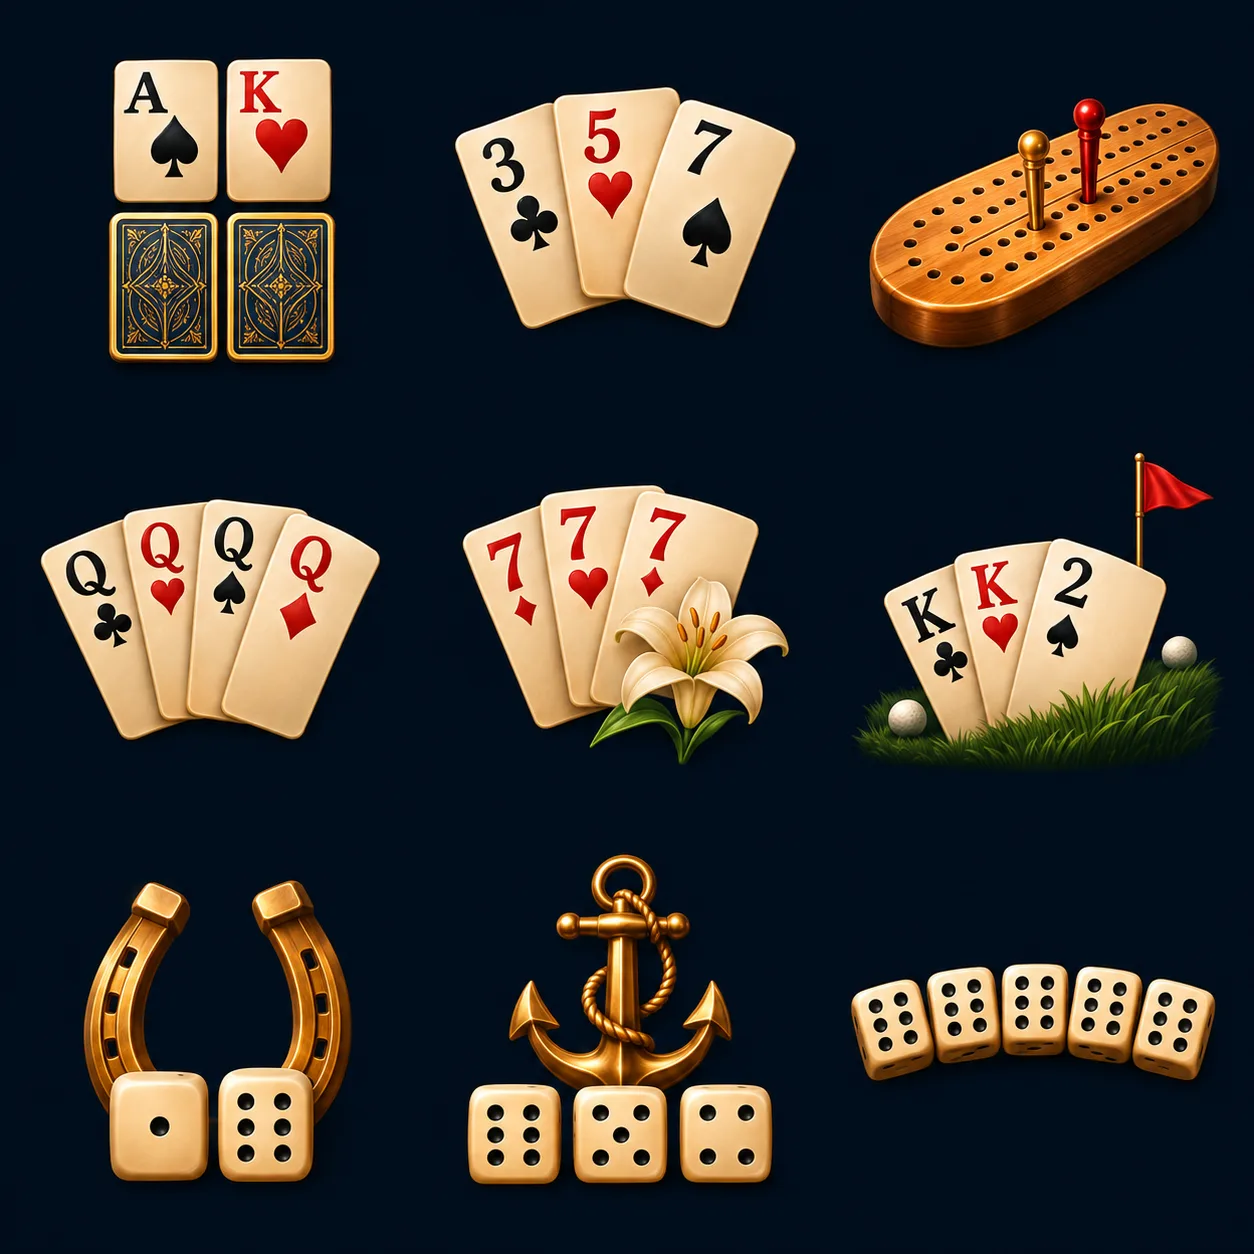
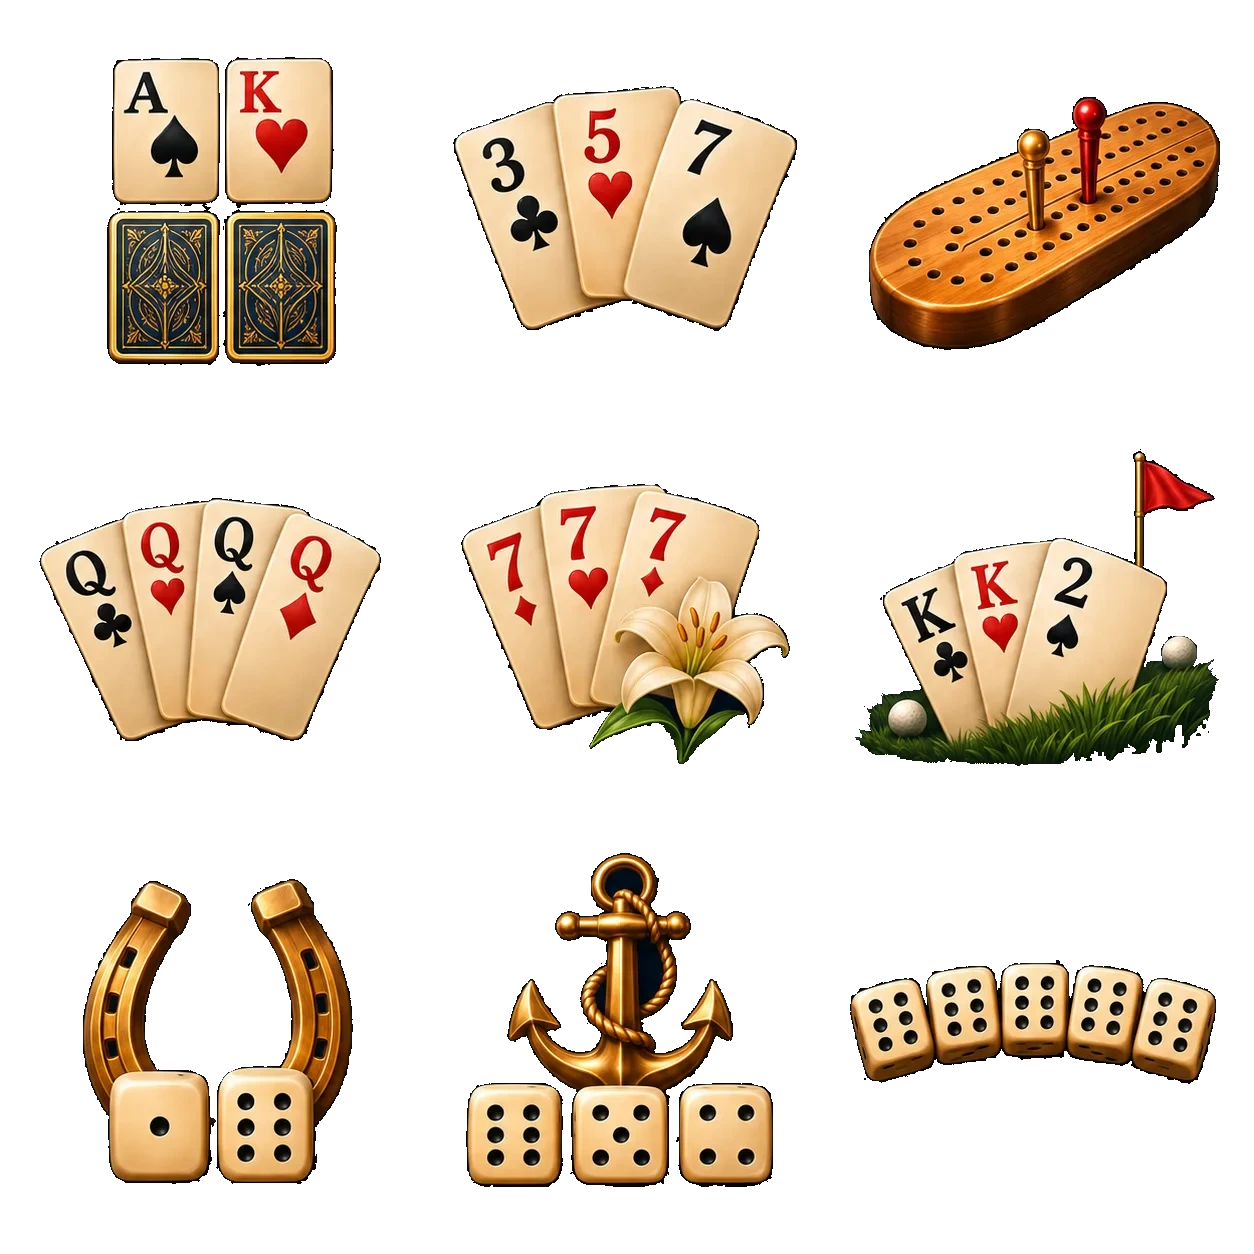
Restore shared Midnight Blue scene composition

diff --git a/src/components/midnight/midnight.css b/src/components/midnight/midnight.css
@@ -63,9 +63,8 @@ body:has(.midnight-invite){background:#06111f}
 .midnight-match-info p{font-size:.9rem;line-height:1.5;color:#d6dfe5}
 
 .dealer-catalog .midnight-art{mix-blend-mode:lighten}
-.dealer-catalog .midnight-tile-large{aspect-ratio:1.4;min-height:5rem;display:grid;grid-template-rows:auto minmax(0,1fr);align-items:start;padding:.7rem}
-.dealer-catalog[data-category=dice] .midnight-tile-large{aspect-ratio:1.12}
-.dealer-catalog .midnight-tile-large>span{grid-row:1;max-width:100%;font-size:clamp(1.05rem,3.7cqi,1.55rem);line-height:1.08;text-shadow:0 2px 4px #000,0 0 8px #06111f}
+.dealer-catalog .midnight-tile-large{aspect-ratio:1.6;min-height:5rem;display:grid;grid-template-rows:auto minmax(0,1fr);align-items:start;padding:.5rem .6rem}
+.dealer-catalog .midnight-tile-large>span{grid-row:1;max-width:100%;font-size:clamp(.95rem,3.5cqi,1.4rem);line-height:1.08;text-shadow:0 2px 4px #000,0 0 8px #06111f}
 .dealer-catalog .midnight-tile-large>.midnight-art{position:static;grid-row:2;justify-self:end;width:90%;height:100%;min-height:0;opacity:.8;object-fit:contain;mask-image:none}
 .dealer-catalog [data-dealer-game-option=holm-game]>.midnight-art{width:100%;opacity:1}
 .dealer-catalog :is([data-dealer-game-option=cribbage],[data-dealer-game-option=six-card-golf])>.midnight-art{width:78%;opacity:.65}
@@ -76,10 +75,10 @@ body:has(.midnight-invite){background:#06111f}
 .midnight-setup[data-dealer-game-setup-step=config]>div>div{padding:.4rem;gap:.3rem;display:flex;flex-direction:column}
 .midnight-setup[data-dealer-game-setup-step=config]>div>div>*{margin-top:0;margin-bottom:0}
 .midnight-setup[data-dealer-game-setup-step=config] .midnight-setup-clock button{min-height:2.75rem}
-.midnight-setup[data-dealer-game-setup-step=config] .midnight-setup-identity{margin-top:.2rem;padding:.25rem .5rem}
-.midnight-setup[data-dealer-game-setup-step=config] .midnight-setup-identity h2{font-size:clamp(1.15rem,3.7cqi,1.6rem);margin:.15rem 0}
-.midnight-setup[data-dealer-game-setup-step=config] .midnight-setup-identity p{font-size:.65rem;line-height:1.2}
-.midnight-setup[data-dealer-game-setup-step=config] .midnight-setup-identity>.midnight-art{height:clamp(2.75rem,10cqb,5rem)}
+.midnight-setup[data-dealer-game-setup-step=config] .midnight-setup-identity{margin:0;padding:0;border:0;border-radius:0;background:none;justify-content:flex-end}
+.midnight-setup[data-dealer-game-setup-step=config] .midnight-setup-toolbar h2{min-width:0;font-size:clamp(1.1rem,3.7cqi,1.6rem);line-height:1.1;margin:0;text-shadow:0 2px 5px #000}
+.midnight-setup[data-dealer-game-setup-step=config] .midnight-setup-identity>.midnight-art{flex:0 0 74%;width:74%;height:clamp(3.5rem,calc(100cqb - 30.6rem),7rem);object-fit:contain;mix-blend-mode:lighten;filter:drop-shadow(0 3px 3px #0008)}
+.midnight-setup[data-dealer-game-setup-step=config] .midnight-amount>div{border:0}
 .midnight-setup[data-dealer-game-setup-step=config] .midnight-settings{gap:.18rem;padding:0}
 .midnight-setup .midnight-setup-body{flex:0 0 auto}
 .midnight-setup[data-dealer-game-setup-step=config] .midnight-inline-setting{padding:0 .45rem;gap:.35rem;min-height:2.875rem}
@@ -92,9 +91,14 @@ body:has(.midnight-invite){background:#06111f}
 .midnight-setup[data-dealer-game-setup-step=config] .midnight-footer{position:static;padding-top:.25rem;gap:.25rem}
 .midnight-setup[data-dealer-game-setup-step=config] .midnight-footer button{padding:.3rem;min-height:2.75rem;font-size:.95rem;line-height:1.1}
 .midnight-setup[data-dealer-game-setup-step=config] .midnight-footer>p{font-size:.6rem;line-height:1.15;margin:0}
-.midnight-setup-identity:has(>.midnight-holm-scene){flex-wrap:wrap;overflow:hidden}
-.midnight-setup-identity:has(>.midnight-holm-scene)>div{display:flex;align-items:baseline;justify-content:space-between;gap:.5rem;flex-basis:100%}
-.midnight-setup[data-dealer-game-setup-step=config] .midnight-setup-identity>.midnight-holm-scene{flex-basis:100%;width:100%;height:auto;max-height:8rem;object-fit:contain;mix-blend-mode:normal;filter:none;border-radius:.35rem}
+/* Exact unobstructed regions of approved mockup 03, shared across games. */
+.midnight-scene-header,.dealer-catalog .midnight-tile{position:relative;isolation:isolate;background-color:#07121b;background-image:linear-gradient(#07121b22,#07121b44),url('/game-branding/approved-scene-table.jpg');background-position:center,center bottom;background-size:100% 100%,100% 55%;background-repeat:no-repeat}
+.midnight-scene-header:before,.dealer-catalog .midnight-tile:before{content:'';position:absolute;z-index:-2;inset:0 auto 0 0;width:46%;background:url('/game-branding/approved-scene-light.jpg') left bottom/auto 100% no-repeat;mask-image:linear-gradient(90deg,#000 55%,transparent)}
+.midnight-scene-header:after,.dealer-catalog .midnight-tile:after{content:'';position:absolute;z-index:-2;inset:0 0 0 auto;width:28%;background:url('/game-branding/approved-scene-glow.jpg') right top/100% 100% no-repeat;mask-image:linear-gradient(90deg,transparent,#000)}
+.midnight-scene-header{border:1px solid #b99558;border-radius:.8rem;padding:.25rem .5rem;overflow:hidden}
+.midnight-scene-header .midnight-setup-toolbar{position:relative;background:linear-gradient(90deg,#06111fb3,transparent);border-radius:.3rem}
+.dealer-catalog .midnight-tile:before,.dealer-catalog .midnight-tile:after{opacity:.5}
+.midnight-setup[data-dealer-game-setup-step=game-selection]>div{background-image:linear-gradient(#06111f9c,#06111ff0 70%),url('../../assets/peoria-bridge-mobile.jpg');background-position:center top;background-size:cover}
 /* An expanded optional amount replaces its summary value in the same row.
    Its existing switch and amount handlers remain independently accessible. */
 .midnight-setup .midnight-setting:has(.midnight-optional-controls):has(>button[aria-expanded=true]){display:grid;grid-template-columns:minmax(0,1fr) minmax(0,12.25rem);align-items:center;padding:0 .45rem}
@@ -109,15 +113,19 @@ body:has(.midnight-invite){background:#06111f}
 .midnight-optional-controls>.midnight-amount{gap:.2rem;min-width:0}
 .midnight-optional-controls>.midnight-amount>div{padding:0 .1rem}
 .midnight-optional-controls>.midnight-amount input,.midnight-optional-controls>.midnight-amount>div>span{font-size:1.1rem}
-@container (min-width:36rem) and (max-height:36rem){
+@container (min-width:26rem) and (max-height:36rem){
  .midnight-setup[data-dealer-game-setup-step=config] .midnight-setup-heading{display:flex;align-items:center;gap:.4rem}
- .midnight-setup[data-dealer-game-setup-step=config] .midnight-setup-toolbar{order:2}
- .midnight-setup[data-dealer-game-setup-step=config] .midnight-setup-toolbar>small{display:none}
- .midnight-setup[data-dealer-game-setup-step=config] .midnight-setup-identity{flex:1;margin-top:0}
+ .midnight-setup[data-dealer-game-setup-step=config] .midnight-setup-toolbar{flex:1;flex-wrap:wrap;gap:.1rem}
+ .midnight-setup[data-dealer-game-setup-step=config] .midnight-setup-toolbar h2{flex-basis:100%}
+ .midnight-setup[data-dealer-game-setup-step=config] .midnight-setup-identity{flex:0 0 52%}
  .midnight-setup[data-dealer-game-setup-step=config] .midnight-settings{grid-template-columns:repeat(2,minmax(0,1fr))}
- .midnight-setup-identity:has(>.midnight-holm-scene){flex-wrap:nowrap}
- .midnight-setup-identity:has(>.midnight-holm-scene)>div{display:block;flex-basis:30%}
- .midnight-setup[data-dealer-game-setup-step=config] .midnight-setup-identity>.midnight-holm-scene{flex-basis:65%;width:65%;max-height:4rem}
+ .midnight-setup[data-dealer-game-setup-step=config] .midnight-setup-identity>.midnight-art{flex-basis:100%;width:100%;height:3.5rem}
+}
+@container (min-width:26rem) and (max-width:36rem) and (max-height:36rem){
+ .midnight-setup .midnight-setting:has(.midnight-optional-controls):has(>button[aria-expanded=true]){grid-column:1/-1}
+ .midnight-setup[data-dealer-game-setup-step=config] .midnight-inline-setting{display:grid;grid-template-columns:minmax(0,1fr);gap:.1rem;padding:.15rem .4rem}
+ .midnight-setup[data-dealer-game-setup-step=config] .midnight-inline-control{width:100%;max-width:none}
+ .midnight-setup[data-dealer-game-setup-step=config] .midnight-settings>.midnight-toggle{grid-column:1/-1}
 }
 .midnight-pending{display:block;white-space:nowrap;font-size:.9rem}
 .midnight-lobby .delayed-lineup li[data-acceptance=own]{background:linear-gradient(125deg,#163c2c,#0b241c);border-color:#3c8b59;box-shadow:inset 3px 0 #62ad7f}

diff --git a/src/components/midnight/GameArtwork.tsx b/src/components/midnight/GameArtwork.tsx
@@ -4,6 +4,8 @@ import './midnight.css';
 // Decorative motifs only. Names, availability and game rules stay in the catalog.
 const motifs = new Set(['run21','tri-towers','quintzee','boxdrop','trip-flip','take-two','royal-flash','mega-card-golf']);
 const atlas:Record<string,number>={'holm-game':0,'3-5-7':1,'357-drop':1,cribbage:2,'crib-lab':2,'gin-rummy':3,canasta:4,'six-card-golf':5,horses:6,'horses-blitz':6,'ship-captain-crew':7,'ship-cap-voyage':7,yahtzee:8};
+// Trim only empty atlas margins on Multiplayer surfaces; the artwork is unchanged.
+const sceneBounds:Record<number,string>={1:'22 64 374 285',2:'20 80 385 285',3:'20 50 380 305',4:'25 50 370 320',5:'20 20 388 350',6:'35 35 335 330',7:'55 10 320 355',8:'10 112 398 155'};
 const fans:Record<string,string[]> = {
   'battle-31':['A♠','K♠','Q♠'], 'race-poker':['A♠','K♥','Q♣'],
 };
@@ -11,10 +13,10 @@ function Die({n,x,y,size=45,fill}:{n:number;x:number;y:number;size?:number;fill:
   const pips=n===1?[[.5,.5]]:n===2?[[.25,.25],[.75,.75]]:n===3?[[.25,.25],[.5,.5],[.75,.75]]:n===4?[[.25,.25],[.75,.25],[.25,.75],[.75,.75]]:n===5?[[.25,.25],[.75,.25],[.5,.5],[.25,.75],[.75,.75]]:[[.25,.22],[.75,.22],[.25,.5],[.75,.5],[.25,.78],[.75,.78]];
   return <g transform={`translate(${x} ${y})`}><rect width={size} height={size} rx={size*.16} fill={fill} stroke="#f9deb0" strokeWidth="1.5"/>{pips.map(([a,b],i)=><circle key={i} cx={a*size} cy={b*size} r={size*.075} fill="#14212b"/>)}</g>;
 }
-export function GameArtwork({game,className='',surface='motif'}:{game:string;className?:string;surface?:'motif'|'setup'}){
+export function GameArtwork({game,className='',surface='motif'}:{game:string;className?:string;surface?:'motif'|'picker'|'setup'}){
   const id=useId().replace(/:/g,''),paper=id+'paper',gold=id+'gold';
-  if(game==='holm-game')return <img className={'midnight-art '+(surface==='setup'?'midnight-holm-scene ':'')+className} src={'/game-branding/holm-approved-'+(surface==='setup'?'scene':'cards')+'.jpg'} alt="" aria-hidden="true"/>;
-  if(game in atlas){const cell=atlas[game];return <svg className={'midnight-art '+className} viewBox="0 0 418 418" aria-hidden="true" focusable="false"><defs><clipPath id={id+'clip'}><rect width="418" height="418"/></clipPath></defs><g clipPath={`url(#${id}clip)`}><image href="/game-branding/midnight-motifs.webp" x={-(cell%3)*418} y={-Math.floor(cell/3)*418} width="1254" height="1254"/></g></svg>;}
+  if(game==='holm-game')return <img className={'midnight-art midnight-holm-cards '+className} src="/game-branding/holm-approved-cards.jpg" alt="" aria-hidden="true"/>;
+  if(game in atlas){const cell=atlas[game];return <svg className={'midnight-art '+className} viewBox={surface==='motif'?'0 0 418 418':sceneBounds[cell]??'0 0 418 418'} aria-hidden="true" focusable="false"><defs><clipPath id={id+'clip'}><rect width="418" height="418"/></clipPath></defs><g clipPath={`url(#${id}clip)`}><image href="/game-branding/midnight-motifs.webp" x={-(cell%3)*418} y={-Math.floor(cell/3)*418} width="1254" height="1254"/></g></svg>;}
   if(game==='chucky-showdown')return <img className={'midnight-art midnight-portrait '+className} src="/arcade/approved-v1/chucky-portrait.webp" alt="" aria-hidden="true"/>;
   if(motifs.has(game))return <img className={'midnight-art midnight-existing-art '+className} src={`/game-branding/async-v1/${game}-motif.webp`} alt="" aria-hidden="true"/>;
   const cards=fans[game];

diff --git a/src/components/DealerGameSetup.tsx b/src/components/DealerGameSetup.tsx
@@ -1176,9 +1176,10 @@ const DealerGameSetupInner = ({
   const amount=(label:string,value:string,onChange:(value:string)=>void,min=1,max?:number,prefix='$')=><AmountControl label={label} value={value} onChange={onChange} min={min} max={max} prefix={prefix}/>;
   const optionalAmount=(label:string,enabled:boolean,toggle:(value:boolean)=>void,value:string,change:(value:string)=>void)=>setting(label,enabled?'$'+value:'Off',<div className="midnight-optional-controls"><ToggleRow label={label+' enabled'} checked={enabled} onChange={toggle}/>{enabled&&amount(label,value,change)}</div>);
 
-  const heading=(title:string,instruction:string)=><header className="midnight-setup-heading">
-    <div className="midnight-setup-toolbar"><small>PEORIA POKER LEAGUE</small><div className="midnight-setup-clock">{timeLeft!==null&&<Badge variant={timeLeft<=10?'destructive':'default'}><Timer className="w-4 h-4"/>{timeLeft}s</Badge>}{pauseControl}</div></div>
-    <div className="midnight-setup-identity"><div><h2>{title}</h2><p>{dealerUsername}, {instruction}</p>{activeHarnessMap[selectedGameType]?.active&&<p className="text-red-400">Harness: {activeHarnessMap[selectedGameType].label}</p>}</div>{selectionStep==='config'&&<GameArtwork game={selectedGameType} surface="setup"/>}</div>
+  const heading=(title:string,instruction:string)=><header className={'midnight-setup-heading'+(selectionStep==='config'?' midnight-scene-header':'')}>
+    <div className="midnight-setup-toolbar">{selectionStep==='config'?<h2>{title}</h2>:<small>PEORIA POKER LEAGUE</small>}<div className="midnight-setup-clock">{timeLeft!==null&&<Badge variant={timeLeft<=10?'destructive':'default'}><Timer className="w-4 h-4"/>{timeLeft}s</Badge>}{pauseControl}</div></div>
+    <div className="midnight-setup-identity">{selectionStep==='config'?<><p className="sr-only">{dealerUsername}, {instruction}</p><GameArtwork game={selectedGameType} surface="setup"/></>:<div><h2>{title}</h2><p>{dealerUsername}, {instruction}</p></div>}</div>
+    {activeHarnessMap[selectedGameType]?.active&&<p className="text-red-400">Harness: {activeHarnessMap[selectedGameType].label}</p>}
   </header>;
 
   // Game selection step - tabbed layout with Cards vs Dice

diff --git a/src/components/catalog/DealerGamePicker.tsx b/src/components/catalog/DealerGamePicker.tsx
@@ -8,7 +8,7 @@ export function DealerGamePicker({previousGame,roster,access,onSelect,harnesses=
  const games=GAME_CATALOG.filter(game=>game.modes.includes('multiplayer')&&game.category===category&&isDiscovered(game,access));
  return <div className="dealer-catalog space-y-3" data-category={category}><CategoryNavigation value={category} onChange={setCategory}/>
  <div className="midnight-tile-grid" aria-label="Choose a game">{games.map(game=>{const reason=eligibility(game,roster,access);return <button type="button" key={game.id} data-dealer-game-option={game.id} disabled={!!reason} aria-describedby={reason&&reason!=='Humans only'?'eligibility-'+game.id:undefined} onClick={()=>onSelect(game.id)} className={'midnight-tile'+(category==='other'?'':' midnight-tile-large')}>
- <GameArtwork game={game.id}/><span className="break-words">{game.name}</span>{harnesses[game.id]?.active&&<span title={harnesses[game.id].label} aria-label={'Harness active: '+harnesses[game.id].label} className="ml-1 rounded bg-red-600 px-1 text-xs text-white">H</span>}
+ <GameArtwork game={game.id} surface={category==='other'?'motif':'picker'}/><span className="break-words">{game.name}</span>{harnesses[game.id]?.active&&<span title={harnesses[game.id].label} aria-label={'Harness active: '+harnesses[game.id].label} className="ml-1 rounded bg-red-600 px-1 text-xs text-white">H</span>}
  {reason&&reason!=='Humans only'&&<span id={'eligibility-'+game.id} className="midnight-eligibility">{reason}</span>}</button>})}</div>
  {!games.length&&<p role="status" className="text-sm text-amber-100">No games currently available in this category.</p>}</div>;
 }

diff --git a/dev/midnight-blue/README.md b/dev/midnight-blue/README.md
@@ -4,7 +4,45 @@ Review branch: `codex/midnight-blue-review`, based on `origin/main` at
 `40cadbcd6f9e321d1ee35a97fbad109cdb090394`. Prepared for review only. Do not push
 or integrate into `main` until Jeremy authorizes publication.
 
-## Final targeted smoke pass
+## Shared atmosphere follow-up
+
+The latest correction applies Holm's scene treatment to the shared Multiplayer
+setup header and all three picker categories. Title, clock/Pause and recognizable
+art are composed inside one framed scene. Cards/Dice share shorter 1.6 tiles
+(subject to the existing minimum height); Other keeps its short translucent
+treatment. The existing Peoria bridge is a subtle picker backdrop.
+
+There is no standalone empty tabletop asset in the ZIP; this was flagged before
+using direct, unobstructed pixel regions of approved mockup 03. New JPEG crops
+(quality 90) are `approved-scene-light.jpg` at (30,244), 210×220;
+`approved-scene-table.jpg` at (115,411), 125×53; and
+`approved-scene-glow.jpg` at (800,244), 95×165. CSS feathers the photo edges into
+the table. No replacement imagery or image generation was used.
+
+The existing motif atlas retains its nine game objects. A border-connected
+navy-background flood fill makes only the backdrop transparent (1,074,817 pixels),
+then the browser WebP encoder saves at quality .92, 1254×1254, 153,250 bytes.
+Multiplayer-only SVG view boxes trim empty margins so the objects fill their
+scene. Holm still uses the approved horizontal four-card crop; Horses still
+shows one/six and Yahtzee five sixes. Other modes retain their motif framing.
+
+Settings, defaults and handlers are unchanged. Removing an inner input border
+saves row height while preserving 44px steppers. Short, wide containers use two
+columns; narrow preview panes put each setting label above its direct controls
+to retain readable numeric values. Expanded optional amounts still fit in place.
+Both pending-invite states keep one-line `Pending acceptance`, with green for
+incoming acceptance. No Async product code changes were needed this pass.
+
+Validation: 128 focused tests, 80 browser regression layouts, 36 targeted setup
+and expanded-editor checks at 390×844, 320×568, 455×488 and 844×390, typecheck and
+production bundle/size gate. Targeted checks assert title bounds, art presence,
+numeric input widths, no vertical overflow, no footer overlap and both invitation
+states. Screenshots wait for fonts/images and completed paints. Visual comparisons
+against mockups 02–04 cover Cards, Dice, Other, Holm and 3-5-7, saved under
+`qualification.local/midnight-blue/atmosphere/`. Local sample transport only;
+production remains held.
+
+## Previous targeted smoke pass
 
 The approved references and latest smoke corrections determine the layout.
 Cards use the reference's 1.4 tile ratio; Dice use 1.12. Titles occupy a separate

diff --git a/docs/codex/CURRENT_RELEASE.md b/docs/codex/CURRENT_RELEASE.md
@@ -1,5 +1,16 @@
 # Midnight Blue UI — November 21, 2026 — local review; not deployed
 
+Shared atmosphere follow-up: all Multiplayer picker categories and setup games
+reuse unobstructed lighting/cocktail/table crops from approved mockup 03. Cards
+and Dice share shorter tiles; Other stays compact and translucent. Existing
+motifs have their empty margins trimmed on Multiplayer surfaces; the atlas's
+connected navy backdrop is transparent, preserving the game objects. The title,
+clock/Pause and larger art now share one scene panel. Dense setup also fits the
+455×488 preview pane with readable values. The 128 focused tests, 80 regression
+browser layouts, 36 targeted setup checks, typecheck and build/size gate pass.
+Five phone-size reference comparisons are under
+`qualification.local/midnight-blue/atmosphere/`. No backend changes or deployment.
+
 Final targeted smoke pass: picker proportions follow the supplied references,
 with titles above their art bounds and reduced Cribbage/Golf art contrast.
 Holm reuses exact art-only crops from approved mockup 03: four cards in one row
